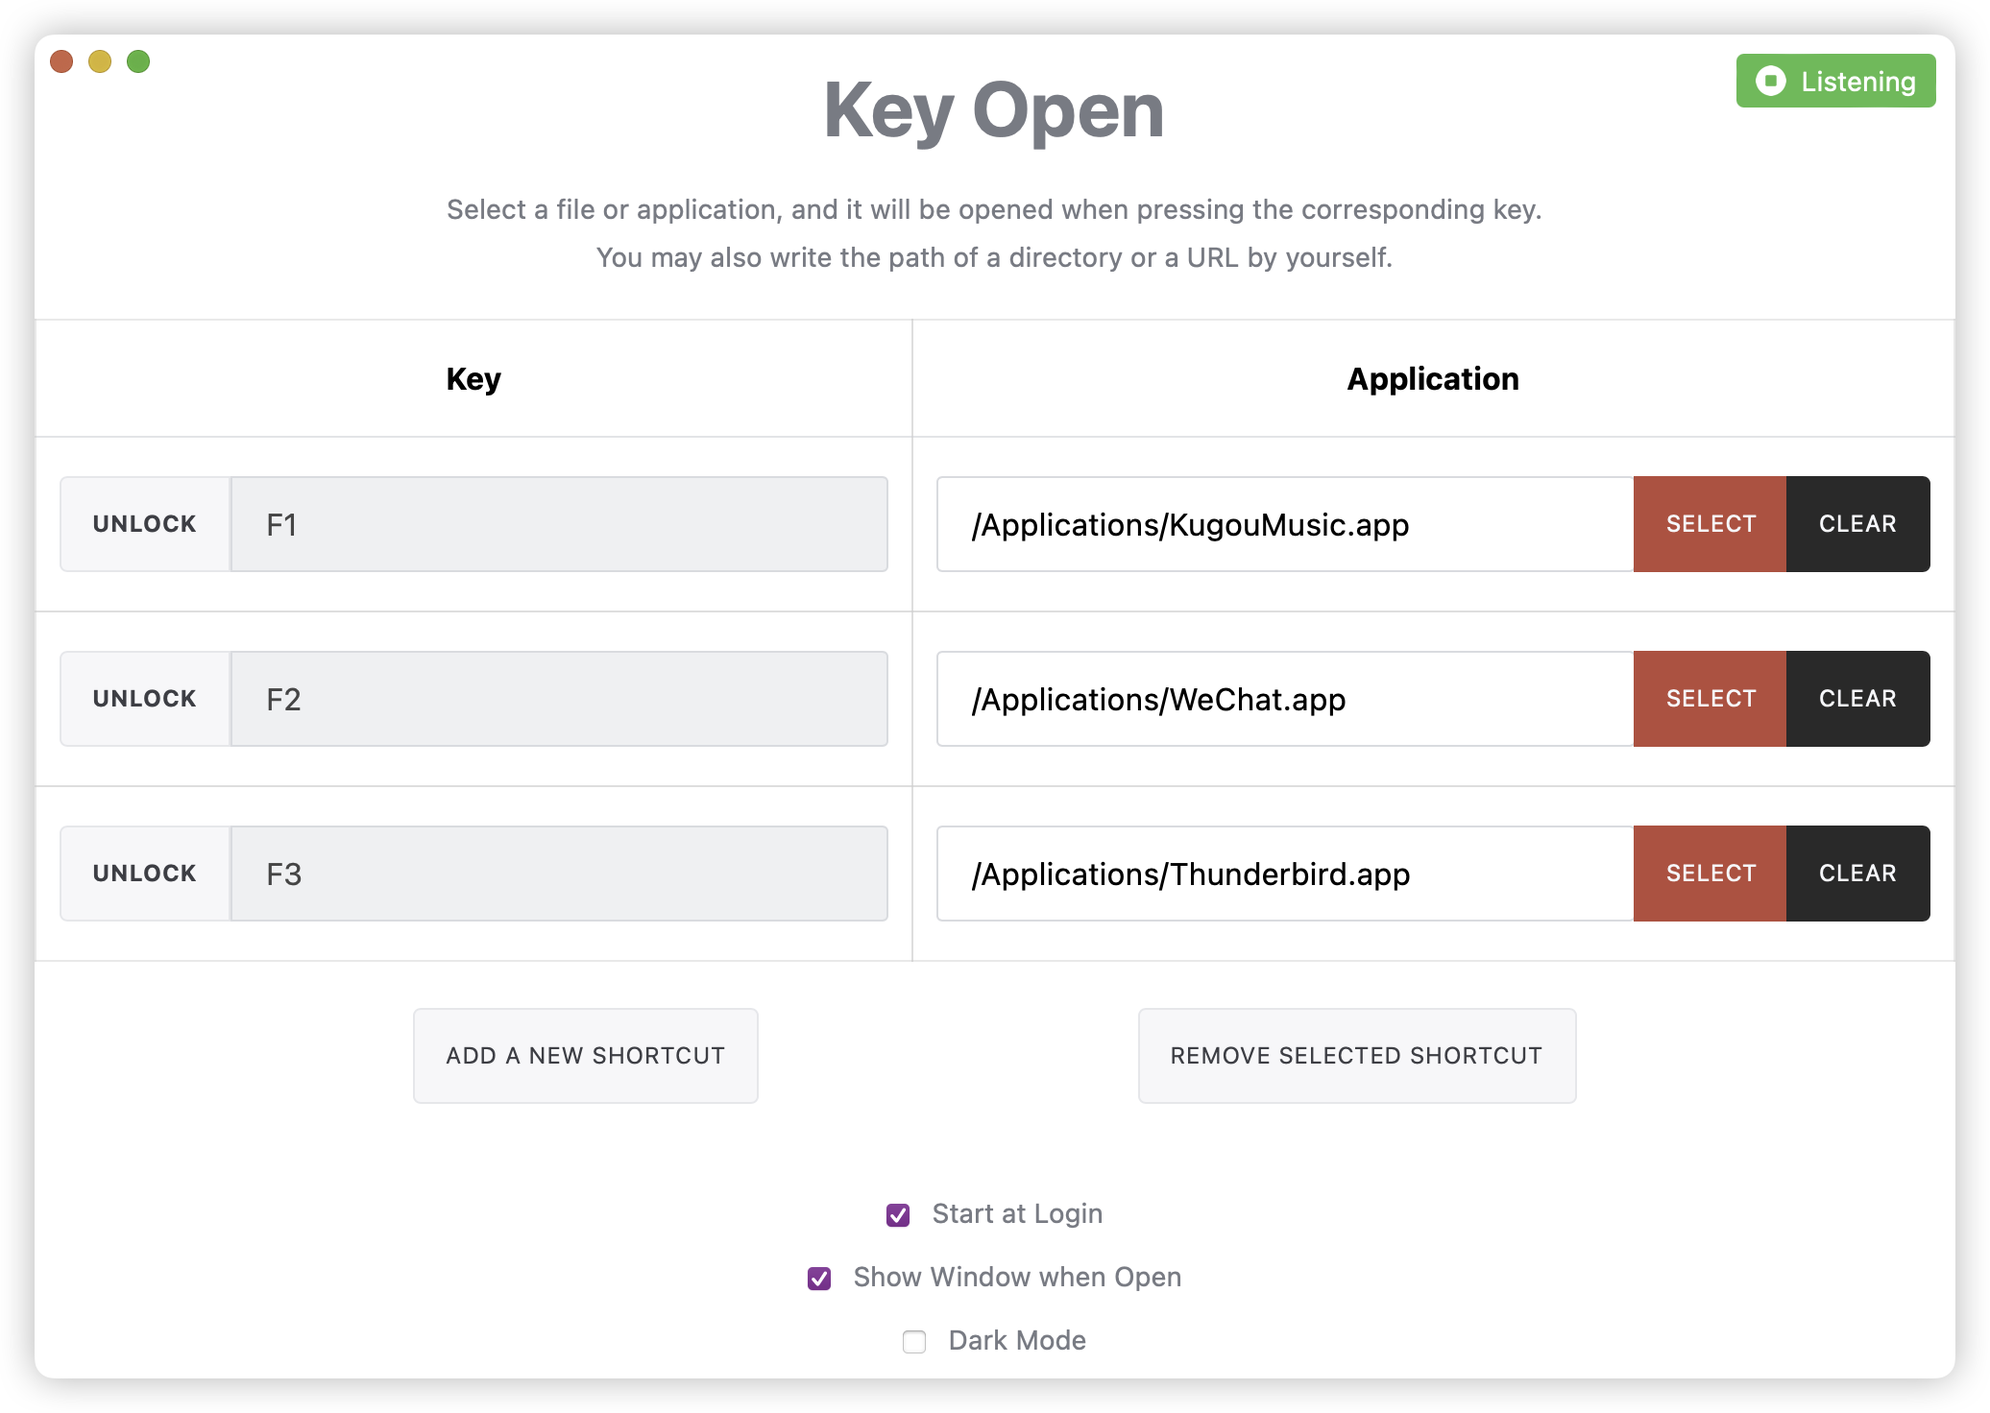
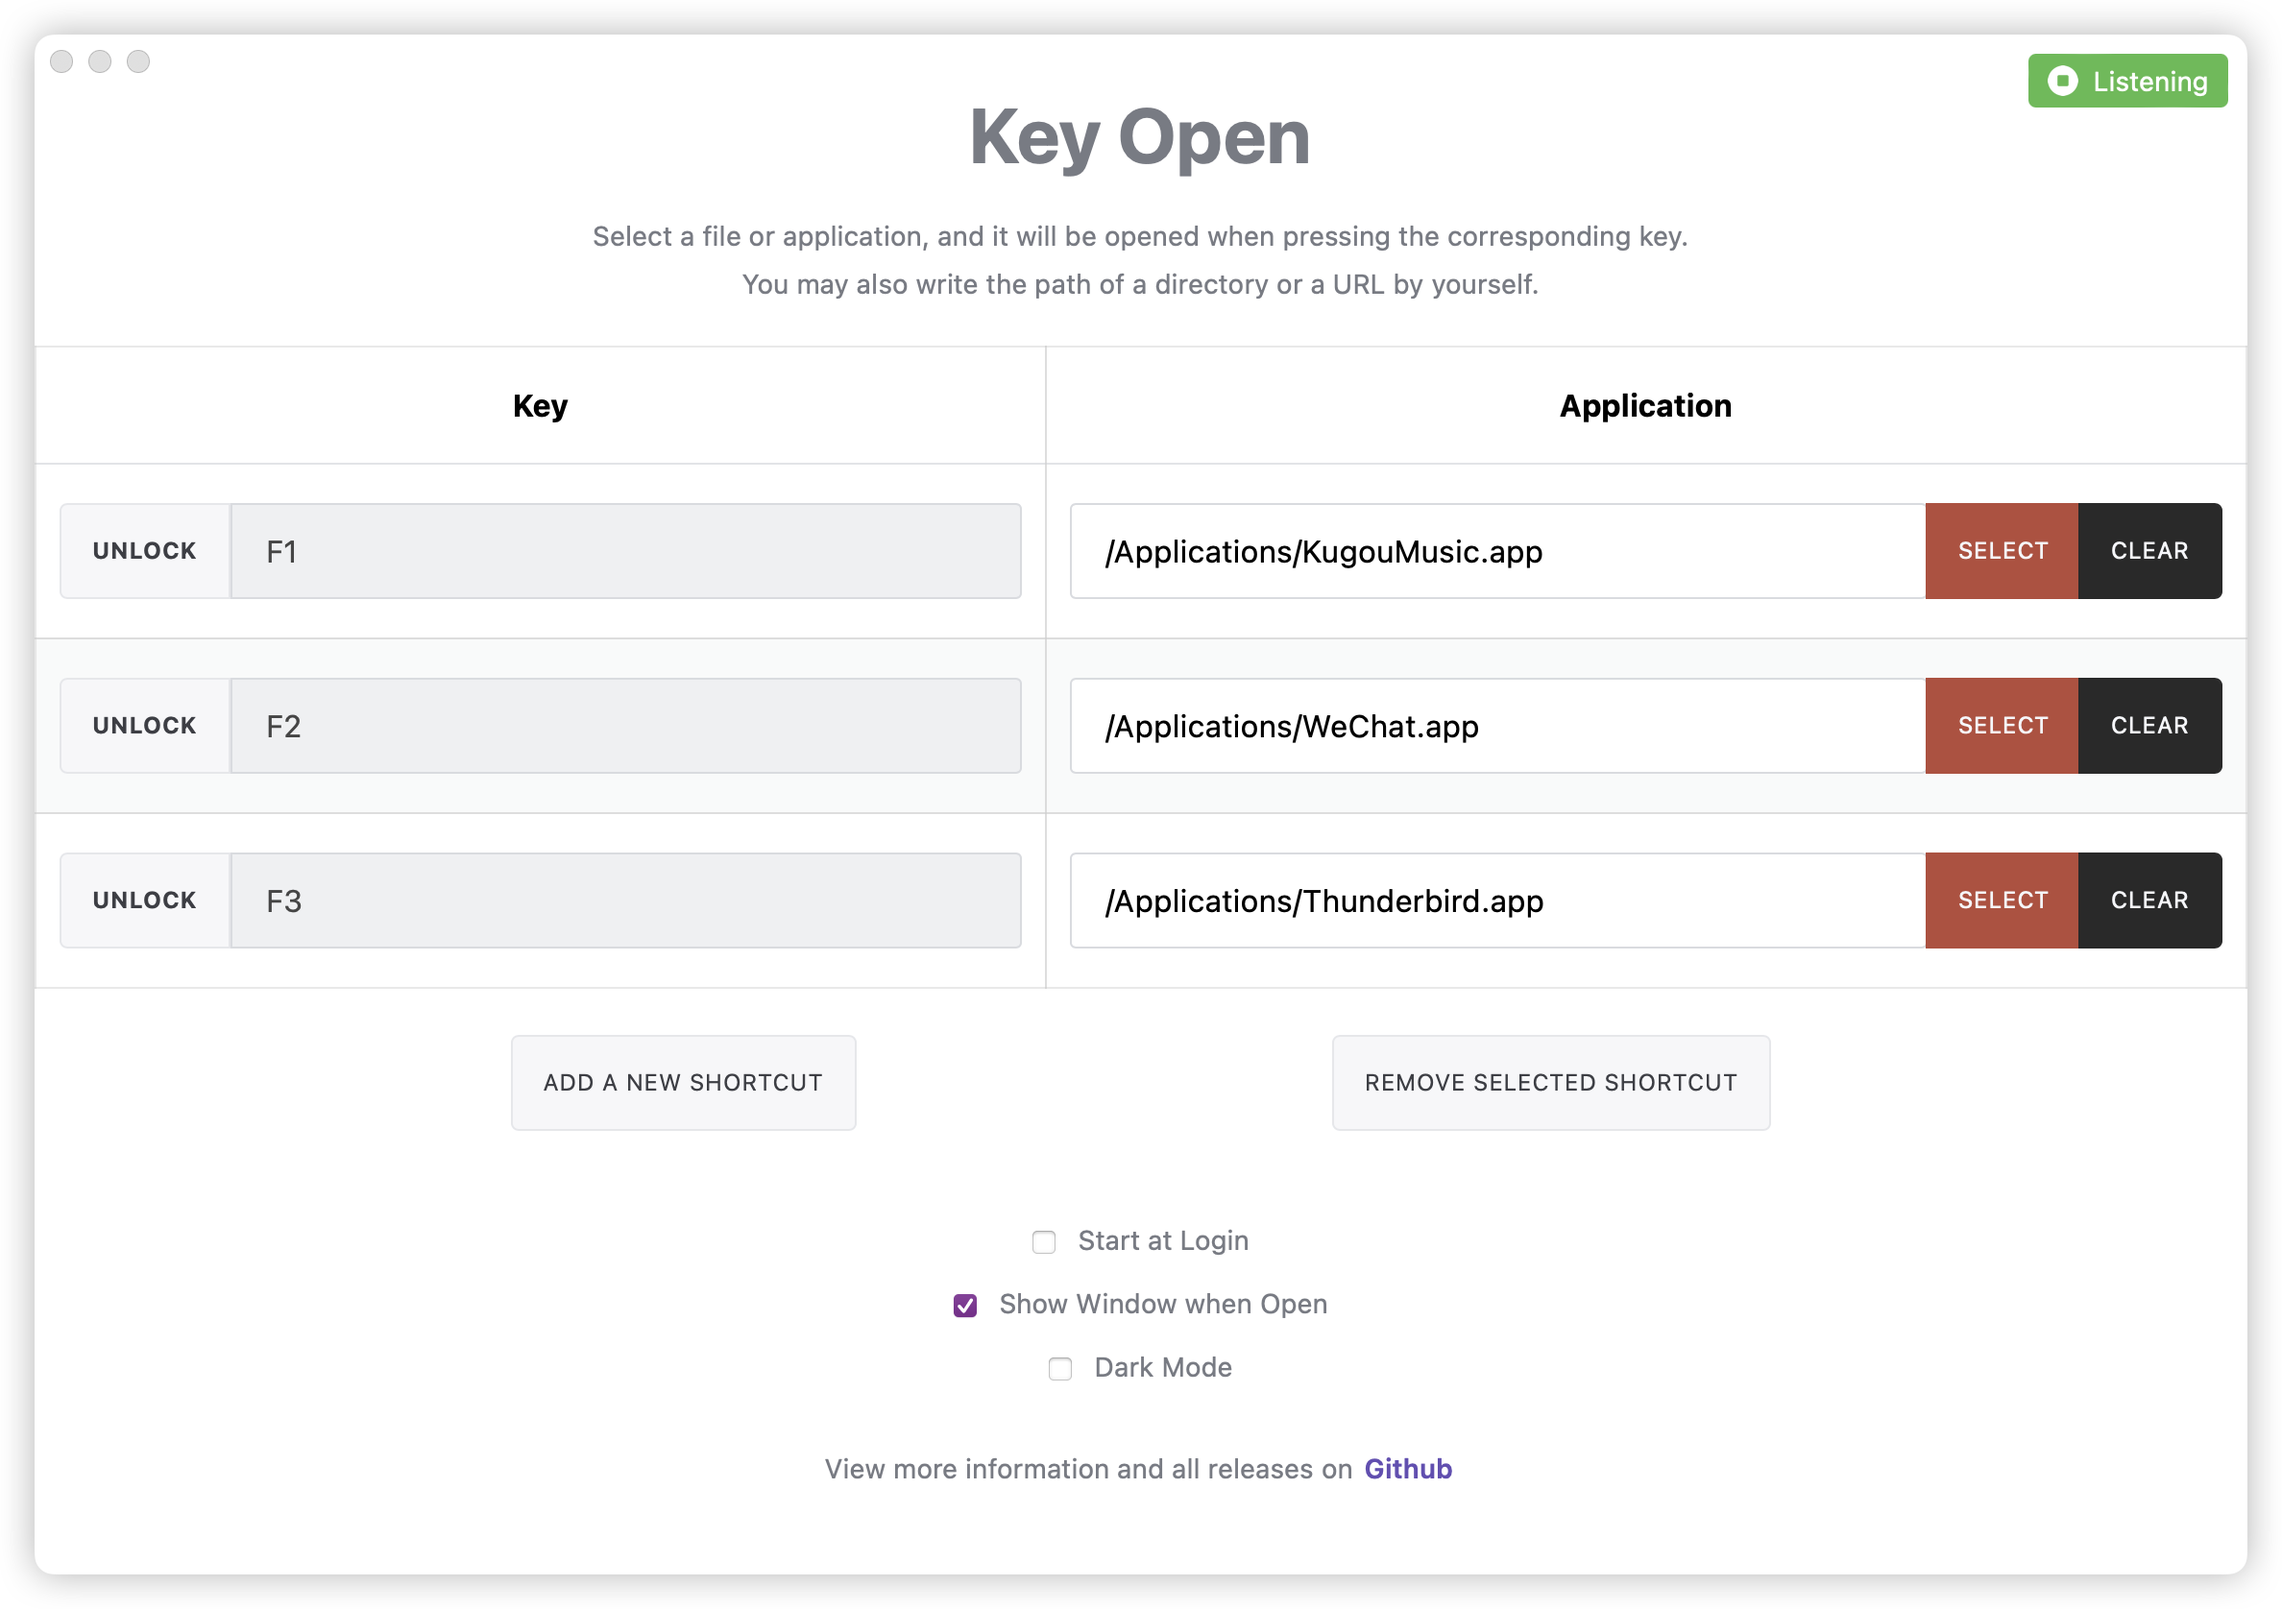
style: add more upper padding

diff --git a/src/index.html b/src/index.html
@@ -25,7 +25,7 @@
 			</div>
 		</div>
 	</div>
-	<div data-tauri-drag-region class="info" style="padding-top: 10px">
+	<div data-tauri-drag-region class="info title-box">
 		<h2>Key Open</h2>
 		<span>Select a file or application, and it will be opened when pressing the corresponding key.</span>
 		<span>You may also write the path of a directory or a URL by yourself. </span>

diff --git a/src/css/style.css b/src/css/style.css
@@ -13,6 +13,10 @@
     padding-bottom: 20px;
 }
 
+.title-box {
+    padding-top: 3vh;
+}
+
 .link {
     cursor: pointer;
 }

diff --git a/README.md b/README.md
@@ -7,6 +7,7 @@
 </p>
 
 > ***Warning***
+>
 > Keyopen might make the same shortcut set by other applications lose their effectiveness.
 
 ## Application Show
